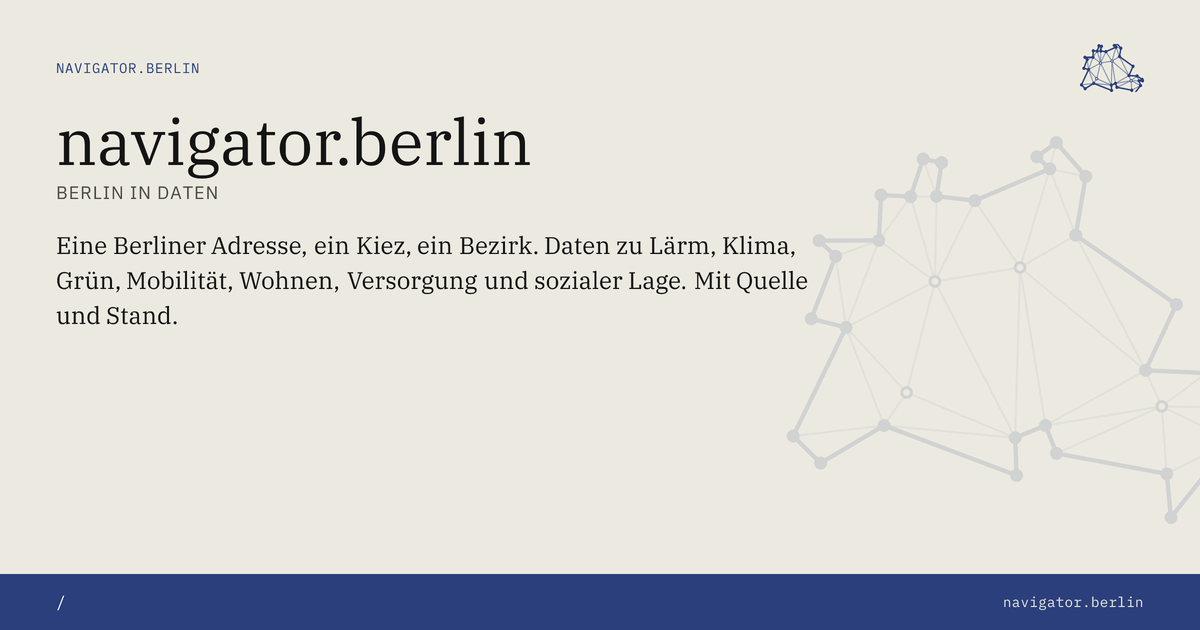
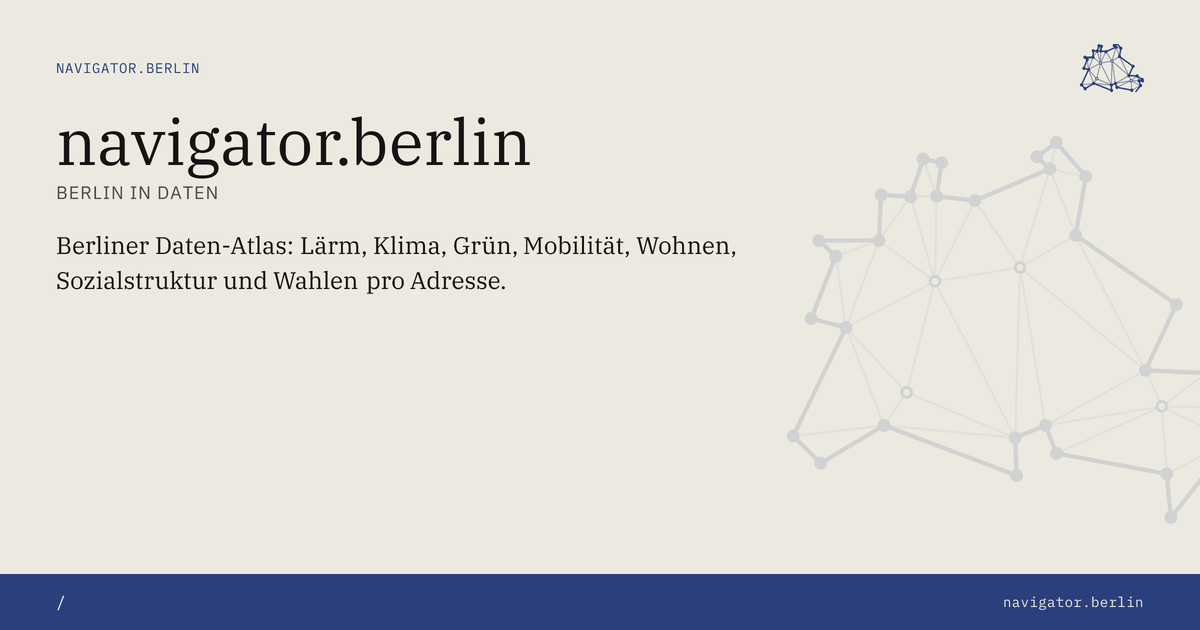
fix(og): Home- und Methodik-OG-Body von Floskel befreit, Bilder regeneriert
- Home-Body: "Mit Quelle und Stand" raus, neue Description ohne nerdigen
  Tracking-Claim ("Aus offenen Datensätzen, ohne Tracking" entfernt).
- Methodik-Body: "Stand-Daten" und "Was wir bewusst nicht tun"-Negativ-Liste
  ersetzt durch "Aktualität" und Auflösungs-Statement ("Auflösung pro Adresse,
  Kiez und Bezirk").
- Home pageDescription in (with-header)/+page.svelte mitgezogen.
- OG-Bilder home.png und methodik.png neu gerendert via pnpm og:images --force.

Changed region(s): [[0.0308, 0.3619, 0.6783, 0.5127]]

diff --git a/scripts/generate-og-images.ts b/scripts/generate-og-images.ts
@@ -62,7 +62,7 @@ const PAGE_TARGETS: readonly PageTarget[] = [
 		slug: 'home',
 		headline: 'navigator.berlin',
 		subline: 'Berlin in Daten',
-		body: 'Eine Berliner Adresse, ein Kiez, ein Bezirk. Daten zu Lärm, Klima, Grün, Mobilität, Wohnen, Versorgung und sozialer Lage. Mit Quelle und Stand.',
+		body: 'Berliner Daten-Atlas: Lärm, Klima, Grün, Mobilität, Wohnen, Sozialstruktur und Wahlen pro Adresse.',
 		footerUrl: '/'
 	},
 	{
@@ -76,7 +76,7 @@ const PAGE_TARGETS: readonly PageTarget[] = [
 		slug: 'methodik',
 		headline: 'Methodik',
 		subline: 'Wie wir Daten verarbeiten',
-		body: 'Quellen, Lizenzen, Stand-Daten, Aggregations-Regeln. Was wir explizit nicht tun: keine LLM-Biografien, kein Lebensqualitäts-Single-Score, keine Werbung.',
+		body: 'Quellen, Lizenzen, Aktualität, Aggregations-Regeln. Auflösung pro Adresse, Kiez und Bezirk.',
 		footerUrl: '/methodik'
 	},
 	{

diff --git a/src/routes/(with-header)/+page.svelte b/src/routes/(with-header)/+page.svelte
@@ -24,7 +24,7 @@
 	const pathname = $derived(page.url.pathname);
 	const pageTitle = 'Home - Berlin in Daten - navigator.berlin';
 	const pageDescription =
-		'Berliner Daten-Atlas: Lärm, Klima, Grün, Mobilität, Wohnen, Sozialstruktur und Wahlen pro Adresse. Aus offenen Datensätzen, ohne Tracking.';
+		'Berliner Daten-Atlas: Lärm, Klima, Grün, Mobilität, Wohnen, Sozialstruktur und Wahlen pro Adresse.';
 	const ogImagePath = '/og/page/home.png';
 	const ogImageAbsolute = $derived(`${origin}${ogImagePath}`);
 	const ogImageAlt = 'navigator.berlin: Berlin in Daten · Karte für Adresse, Kiez und Bezirk';
